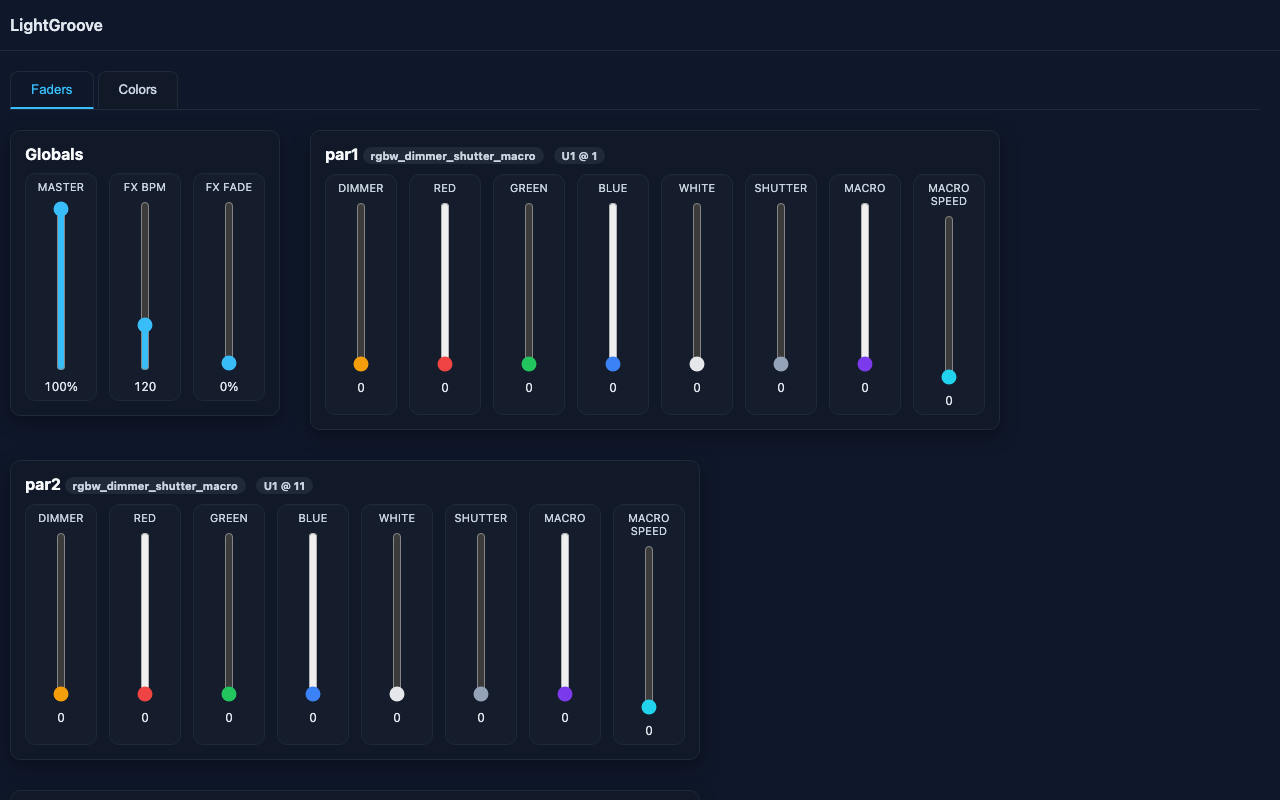
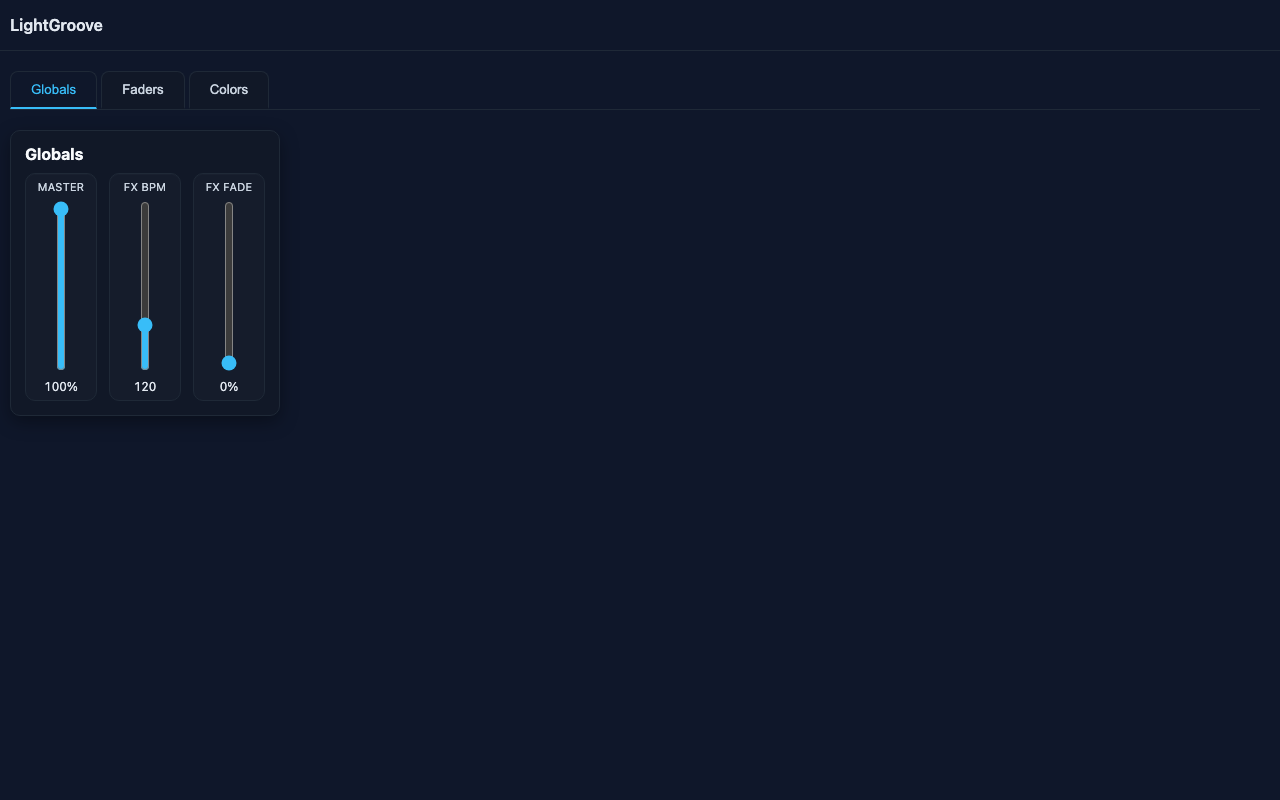
Move Globals section to new Globals tab

diff --git a/src/templates/base.html b/src/templates/base.html
@@ -45,10 +45,12 @@
   <header>LightGroove</header>
   <div class="container">
     <div class="tabs">
-      <button class="tab active" data-tab="faders">Faders</button>
+      <button class="tab active" data-tab="globals">Globals</button>
+      <button class="tab" data-tab="faders">Faders</button>
       <button class="tab" data-tab="colors">Colors</button>
     </div>
     
+    {TAB_GLOBALS}
     {TAB_FADERS}
     {TAB_COLORS}
   </div>

diff --git a/src/templates/tab_faders.html b/src/templates/tab_faders.html
@@ -1,5 +1,4 @@
-<div id="tab-faders" class="tab-content active">
+<div id="tab-faders" class="tab-content">
   <div class="grid" id="fixtures-grid">
-    {GLOBALS_SECTION}
   </div>
 </div>

diff --git a/src/templates/tab_globals.html b/src/templates/tab_globals.html
@@ -1,0 +1,3 @@
+<div id="tab-globals" class="tab-content active">
+  {GLOBALS_SECTION}
+</div>

diff --git a/src/ui_generator.py b/src/ui_generator.py
@@ -19,15 +19,17 @@ def generate_ui(fixture_manager, output_dir: Path, api_base: str = "") -> Path:
     
     # Load section templates
     globals_section = _load_template(template_dir / "section_globals.html")
+    tab_globals = _load_template(template_dir / "tab_globals.html")
     tab_faders = _load_template(template_dir / "tab_faders.html")
     tab_colors = _load_template(template_dir / "tab_colors.html")
     
-    # Insert globals section into faders tab
-    tab_faders = tab_faders.replace("{GLOBALS_SECTION}", globals_section)
+    # Insert globals section into globals tab
+    tab_globals = tab_globals.replace("{GLOBALS_SECTION}", globals_section)
     
     # Combine all templates
     rendered = (
         base_template
+        .replace("{TAB_GLOBALS}", tab_globals)
         .replace("{TAB_FADERS}", tab_faders)
         .replace("{TAB_COLORS}", tab_colors)
         .replace("__API_BASE__", api_base or "")
